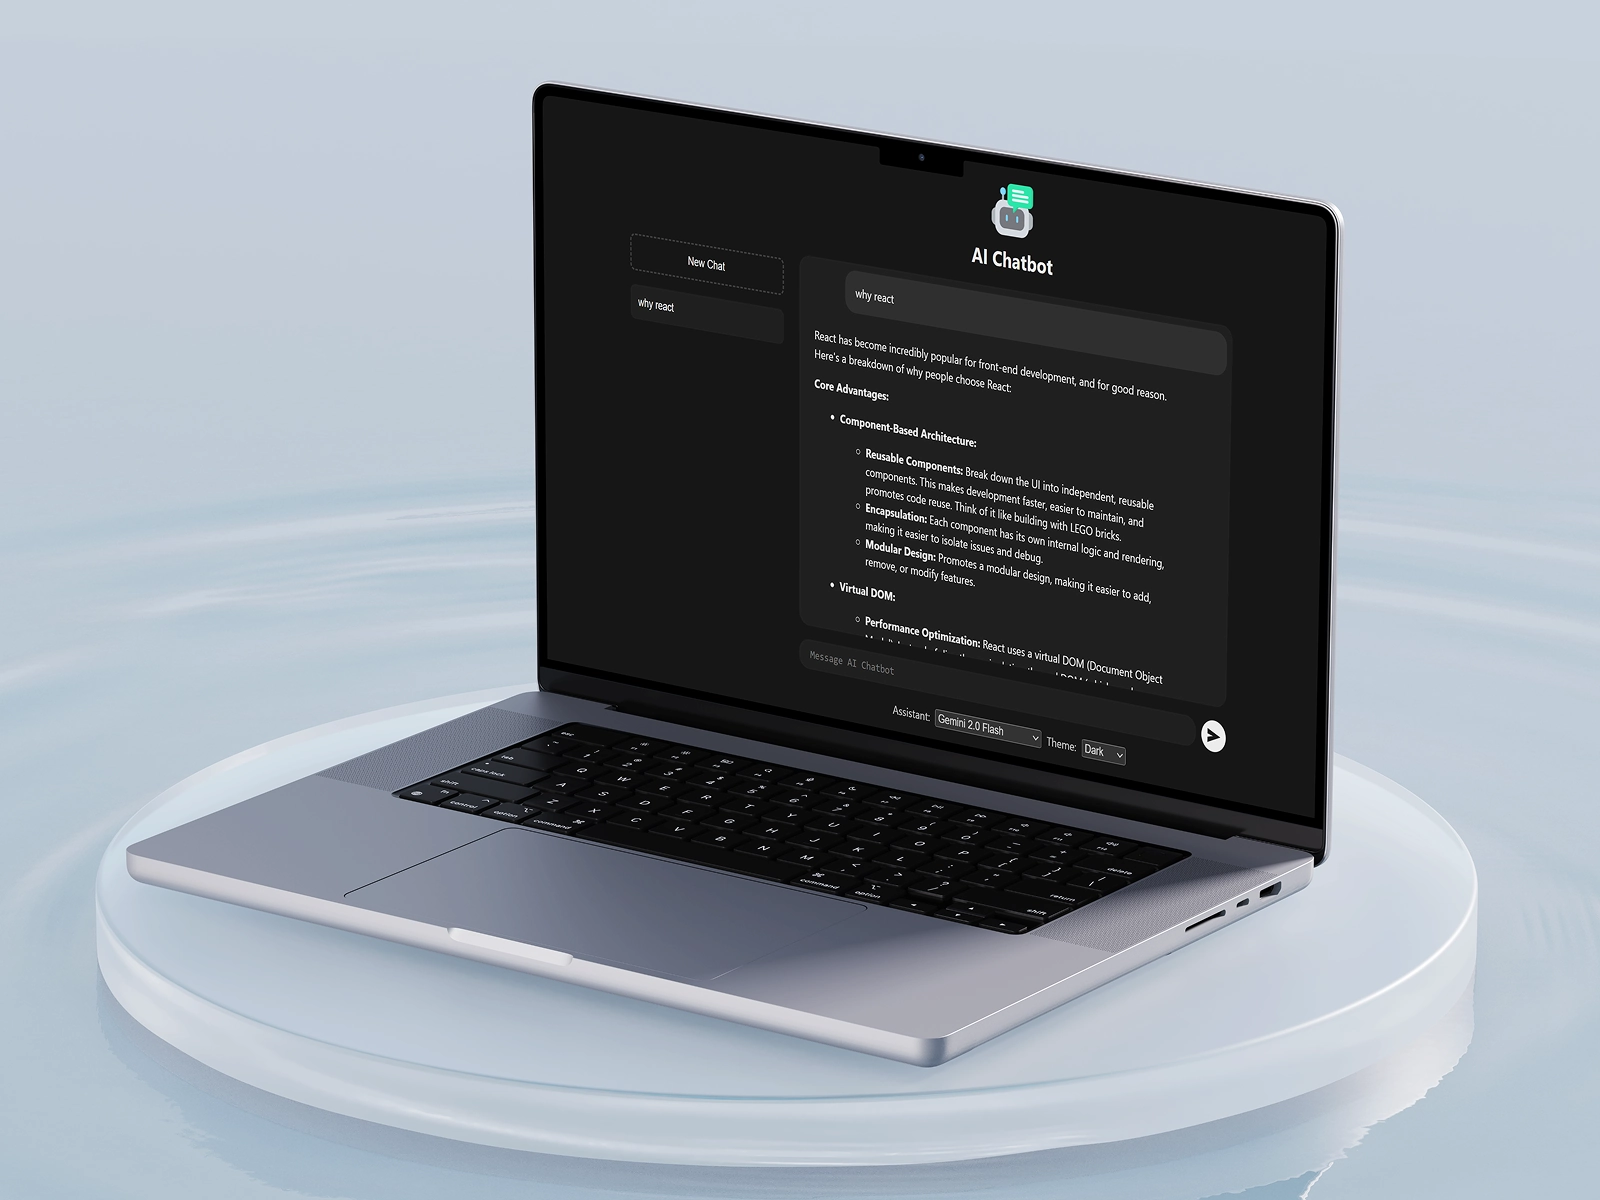
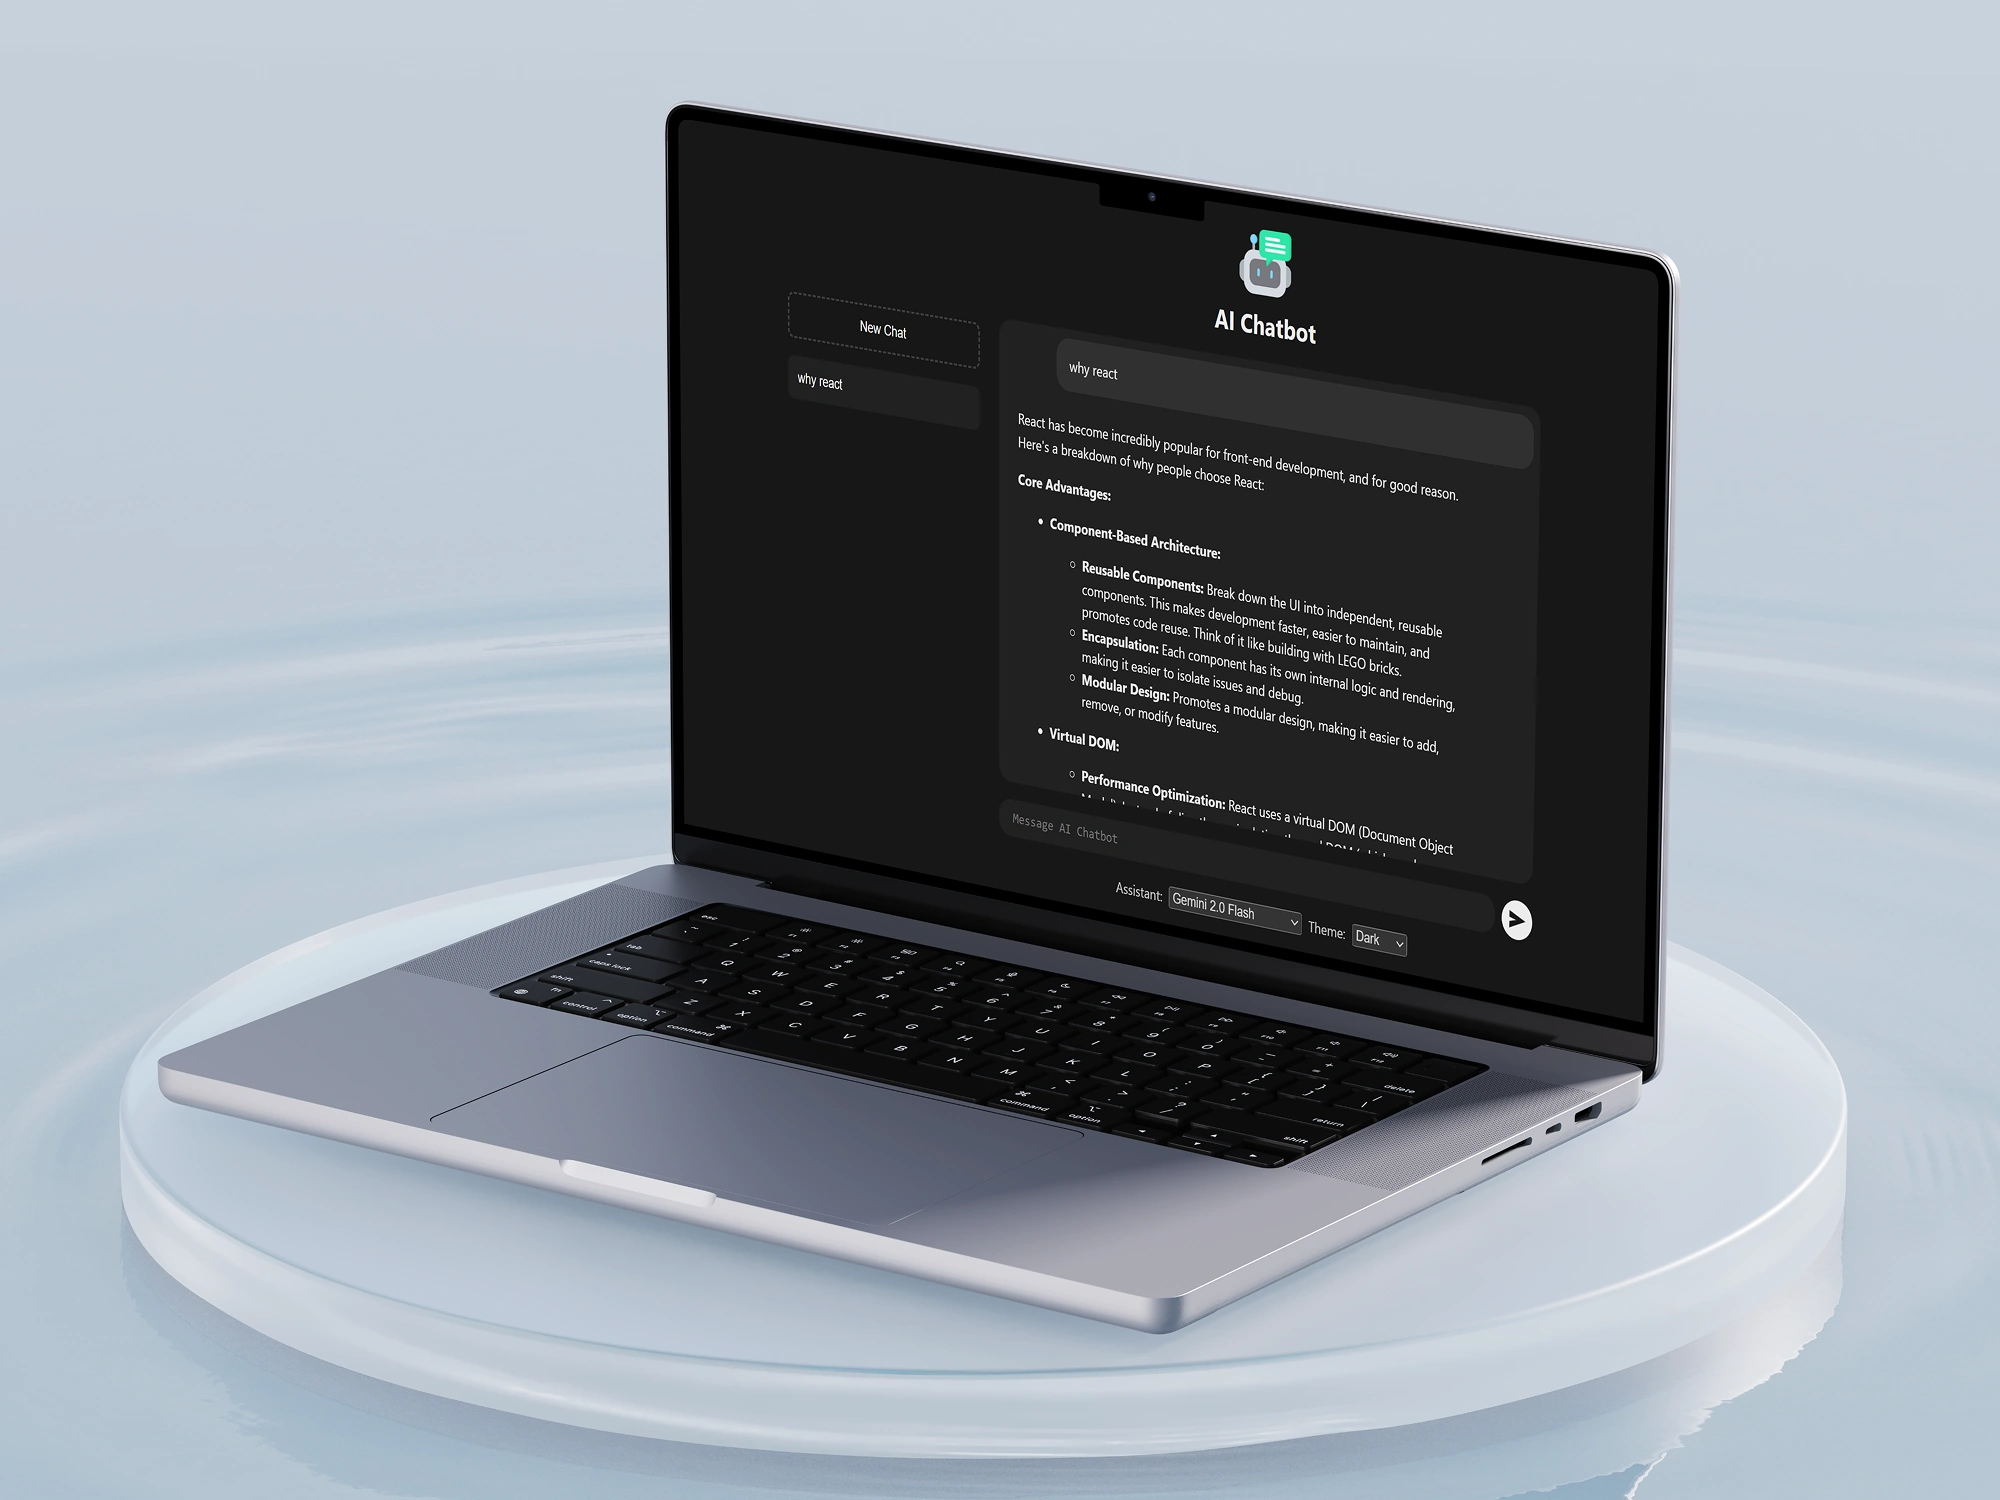
update performance

Changed region(s): [[0.5, 0.2775, 0.7188, 0.5242], [0.5625, 0.5242, 0.6562, 0.555], [0.6875, 0.555, 0.7188, 0.5858]]

diff --git a/src/App.jsx b/src/App.jsx
@@ -18,34 +18,37 @@ export default function App() {
           <div className="relative z-0">
             <FloatingButton />
 
-            {/* Hero langsung render */}
             <section id="header">
               <Header />
             </section>
 
-            {/* Section lain lazy */}
-            <Suspense fallback={null}>
-              <section id="recentproject">
+            <section id="recentproject">
+              <Suspense fallback={null}>
                 <RecentProject />
-              </section>
+              </Suspense>
+            </section>
 
-              <section id="about">
+            <section id="about">
+              <Suspense fallback={null}>
                 <AboutMe />
-              </section>
+              </Suspense>
+            </section>
 
-              <section id="projects">
+            <section id="projects">
+              <Suspense fallback={null}>
                 <Projects />
-              </section>
+              </Suspense>
+            </section>
 
-              <section id="contact">
+            <section id="contact">
+              <Suspense fallback={null}>
                 <Contact />
-              </section>
-            </Suspense>
+              </Suspense>
+            </section>
           </div>
         }
       />
 
-      {/* Detail page lazy */}
       <Route
         path="/project/:slug"
         element={
